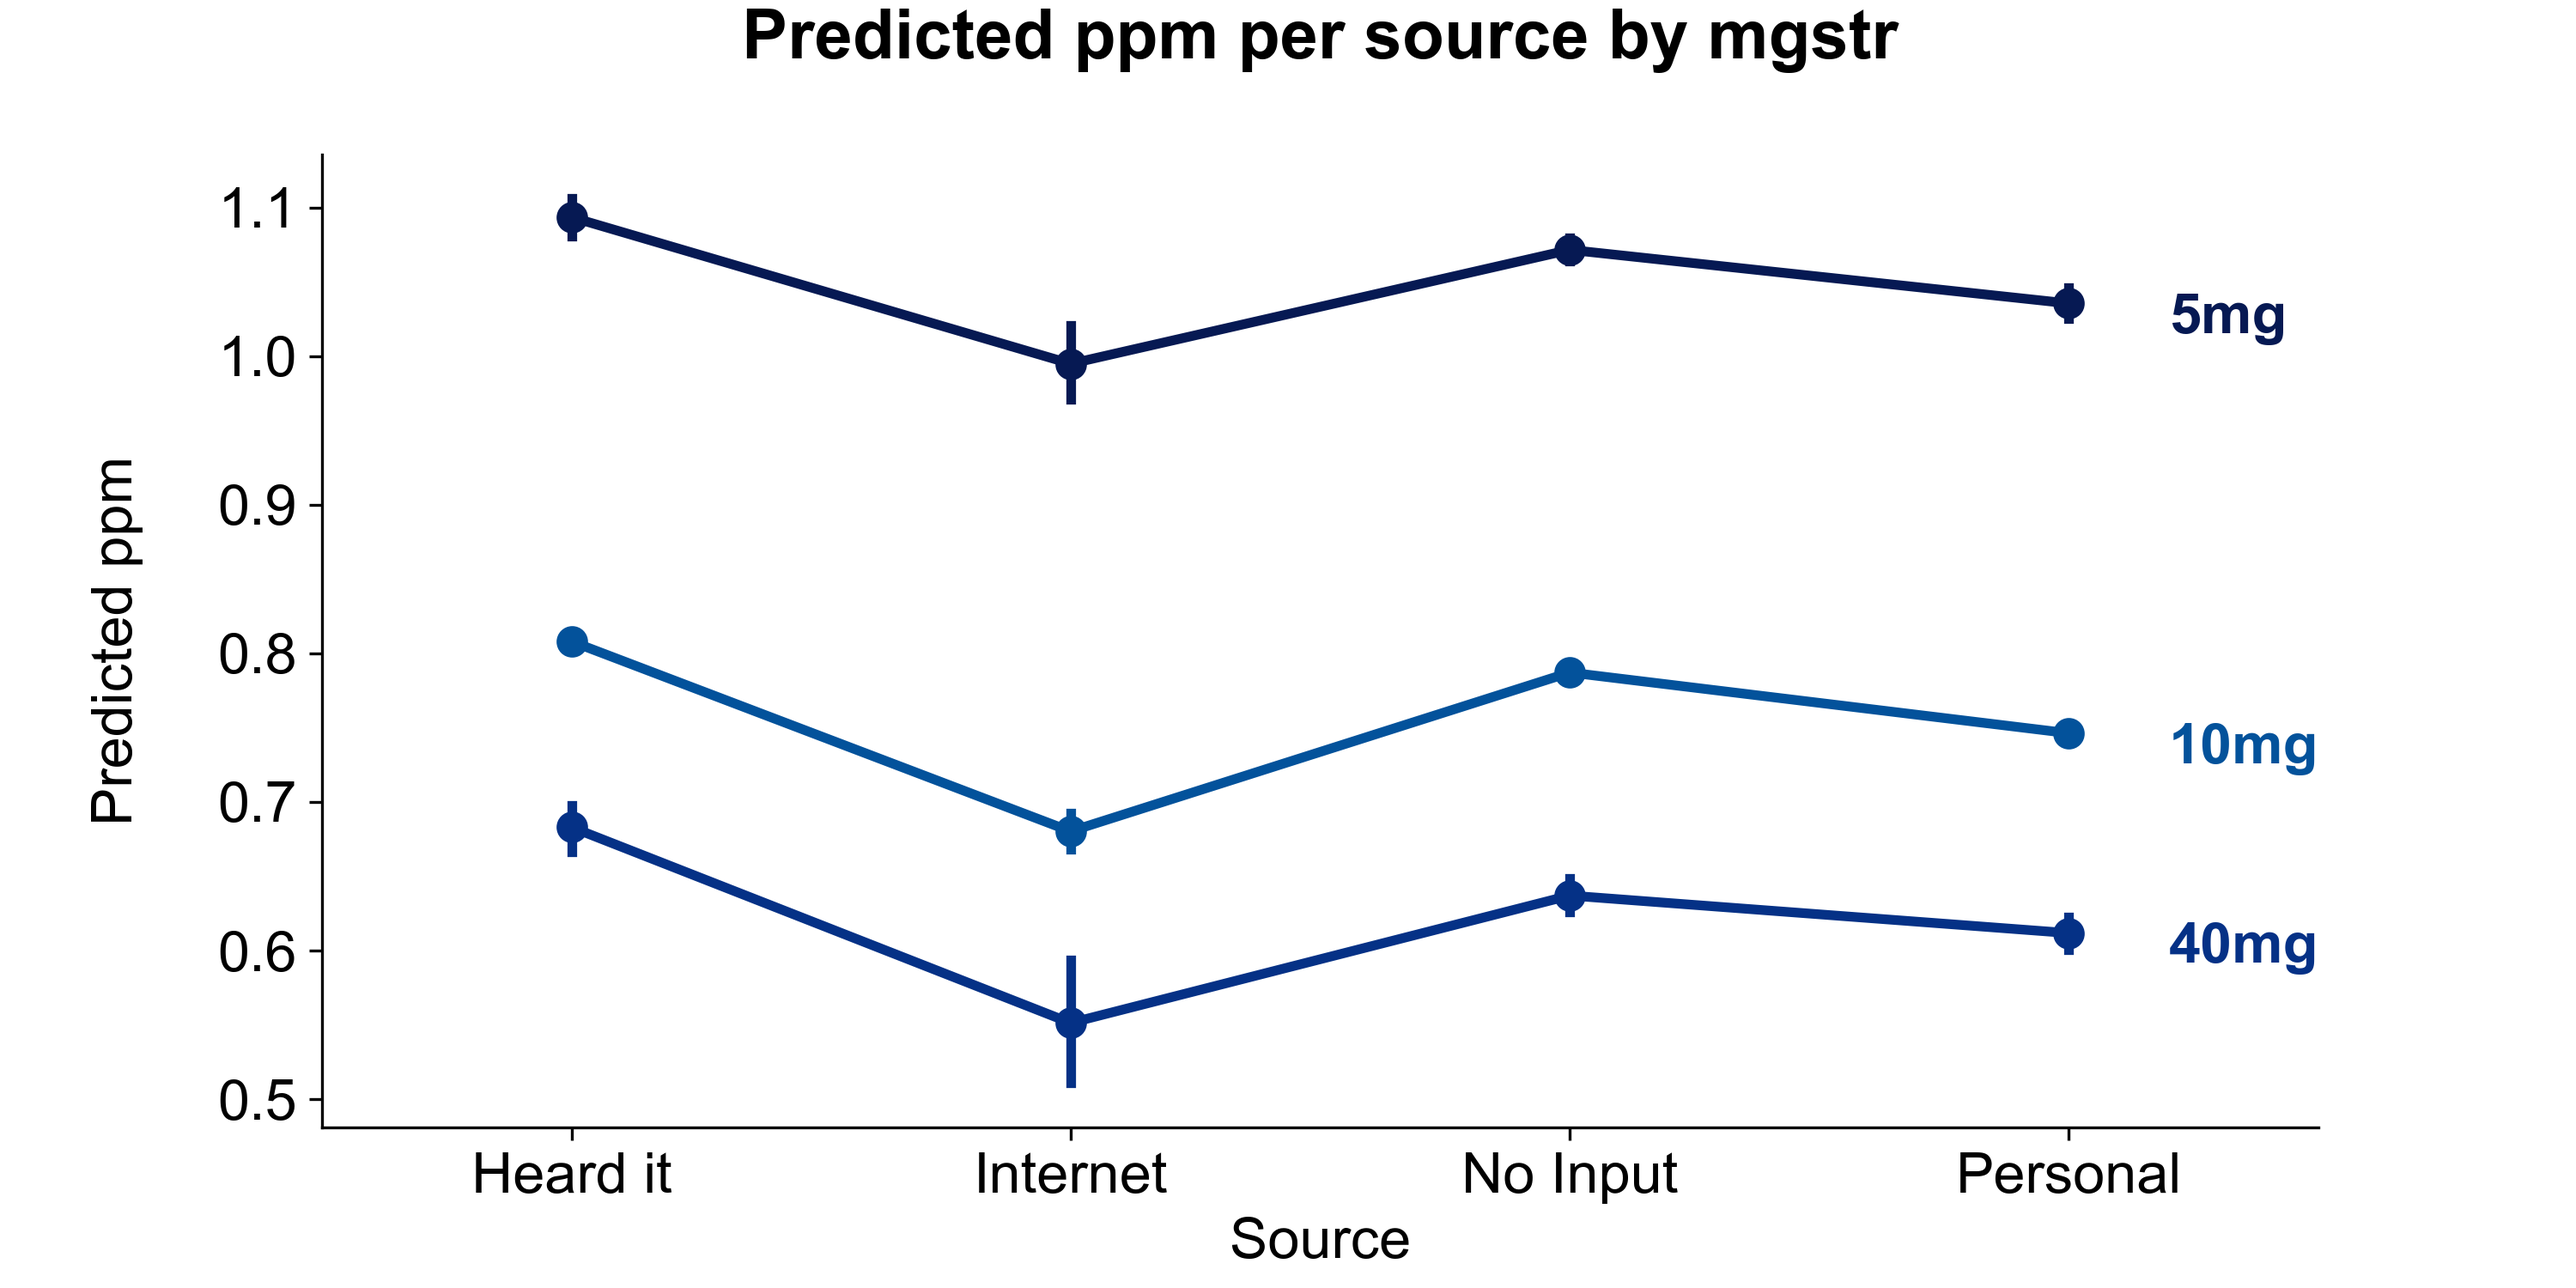
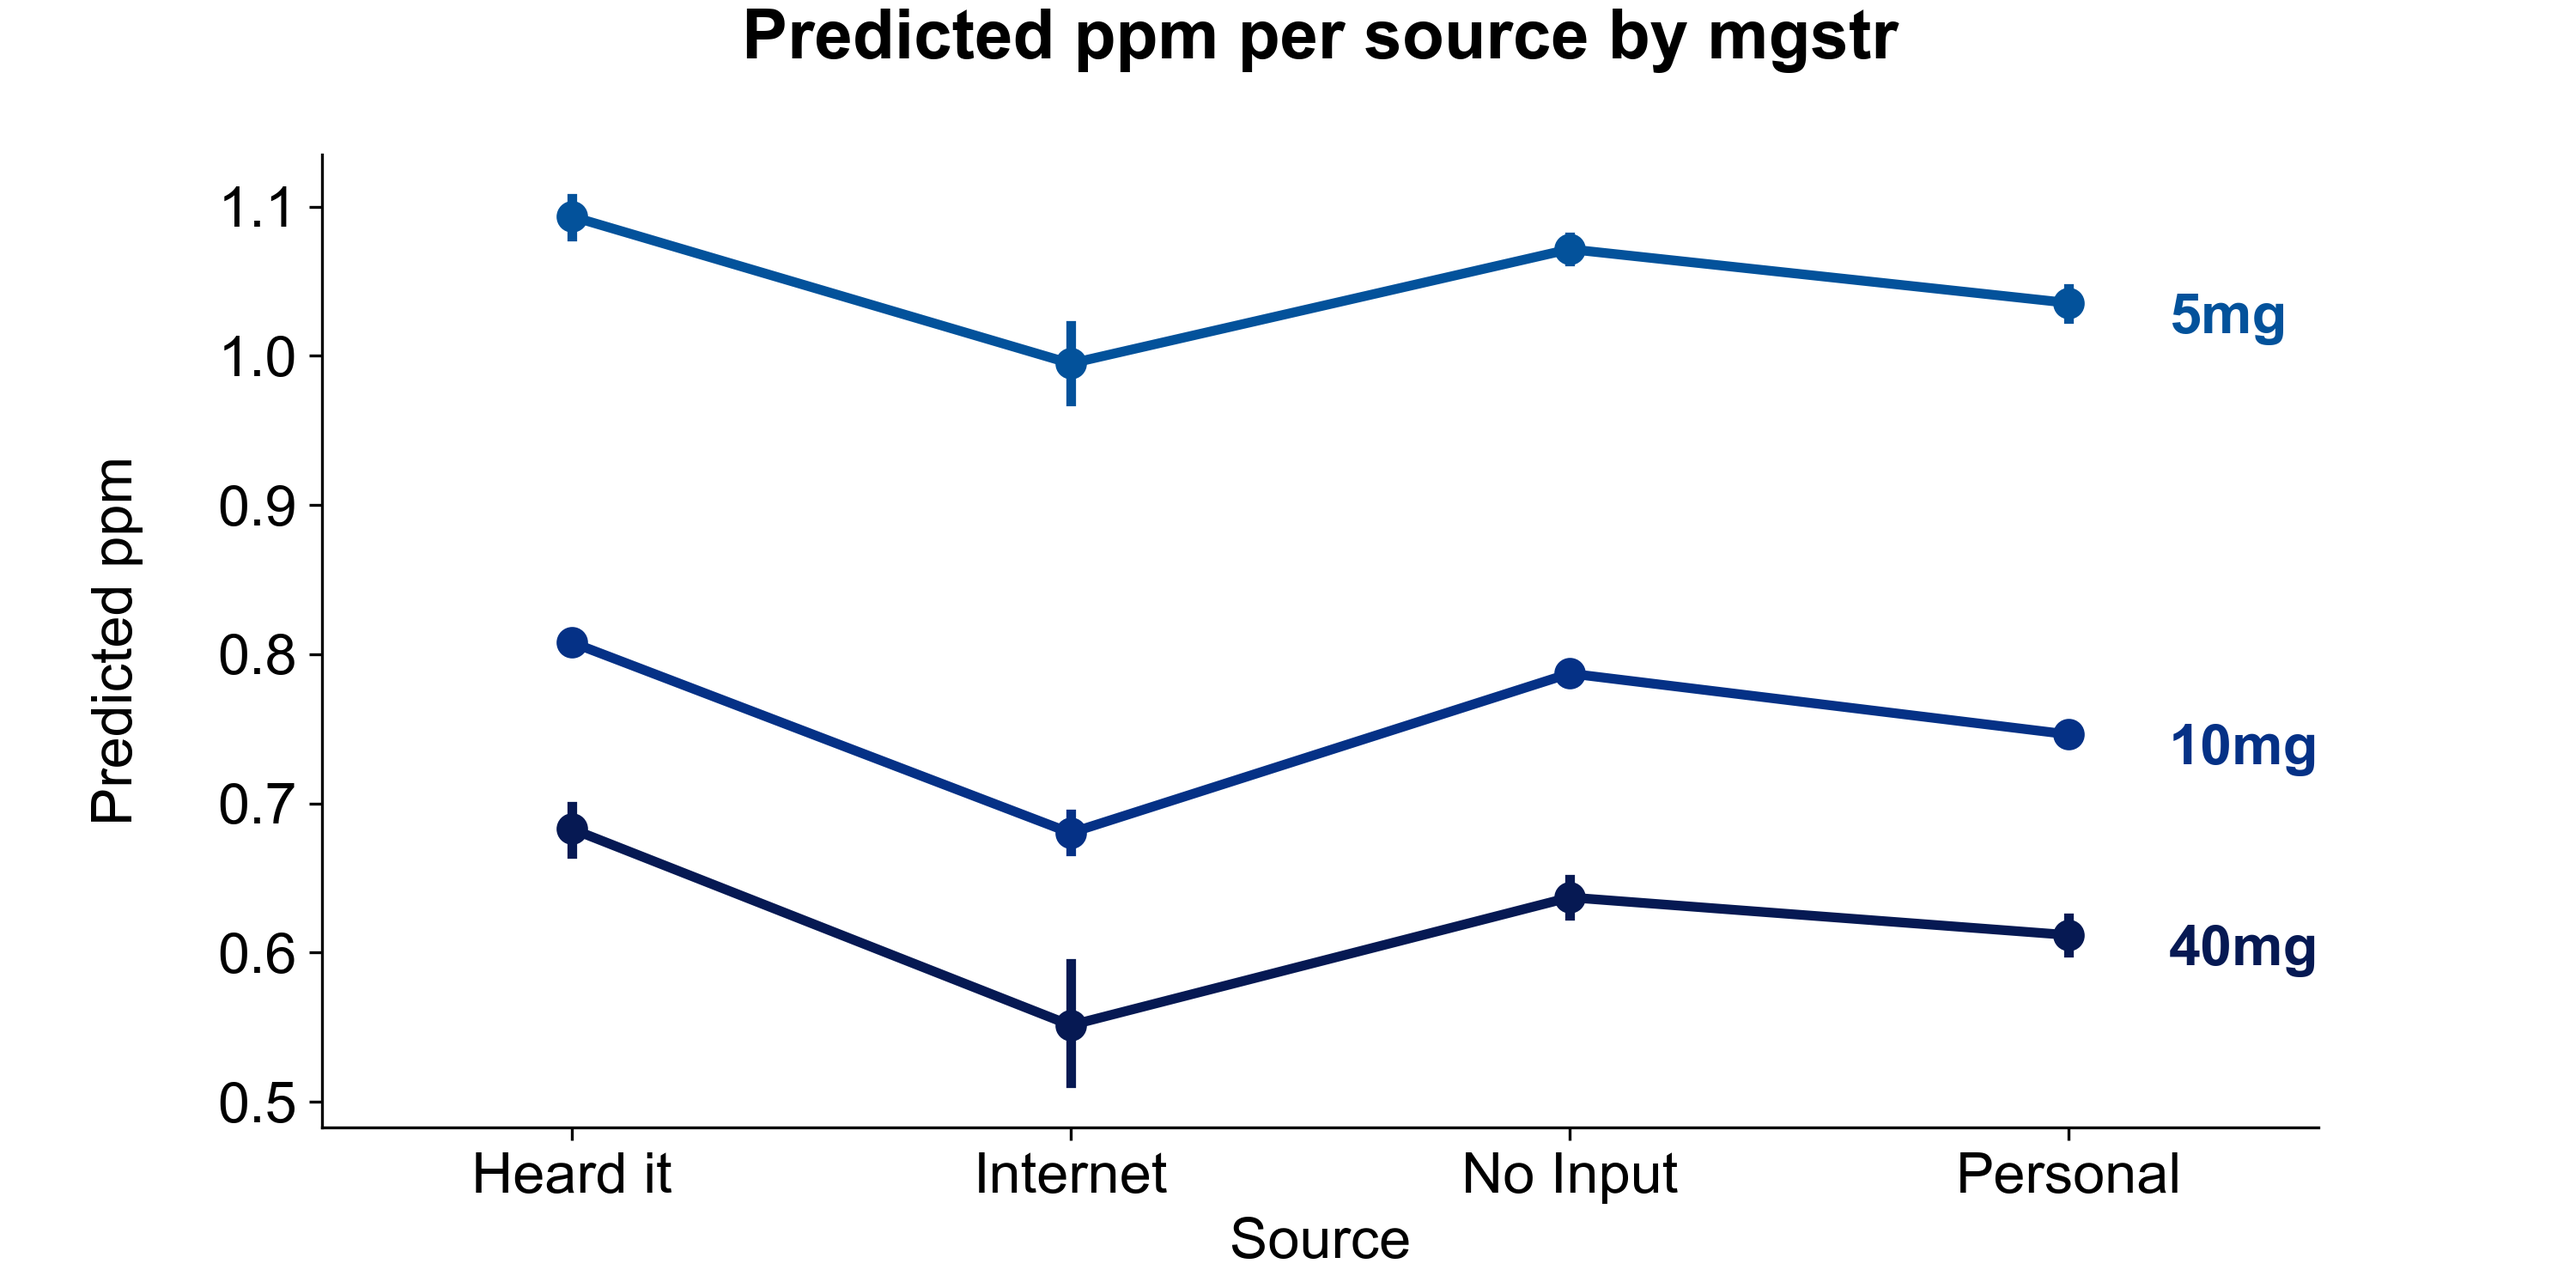
images! yay!

diff --git a/Presentation/part1_plots.py b/Presentation/part1_plots.py
@@ -1,8 +1,8 @@
 #%%
-import pandas as pd
 import matplotlib.pyplot as plt
-import seaborn as sns
 import matplotlib_inline
+import pandas as pd
+import seaborn as sns
 
 #%%
 #################### CONFIG ####################
@@ -57,7 +57,7 @@ total[cat_cols] = total[cat_cols].astype("category")
 #%%
 #################### pred by source ####################
 fig, ax = plt.subplots(figsize=(10, 5))
-palette3 = [LIGHTBLUE, MIDDLE, DARKBLUE]
+palette3 = [MIDDLE, DARKBLUE, LIGHTBLUE]
 
 sns.pointplot(
     data=clean_df,
@@ -86,24 +86,53 @@ ax.set_ylabel("Predicted ppm\n")
 plt.savefig("Images/ppm_source_mgstr.png", facecolor="white", dpi=300)
 
 #%%
-#################### Prediction by State ####################
-state_order = (
-    total.groupby("state")["pred"].mean().sort_values().index
-)  # .to_series().replace(state_abbrevs).values
-fig, ax = plt.subplots(figsize=(5, 11))
+#################### Random Intercepts by State ####################
+
+df_dotplot = pd.read_parquet("../Data/part1_dotplot_data.parquet").sort_values(
+    by="pointestimate"
+)
+df_dotplot["state"] = df_dotplot["state"].astype("category")
+
+fig, ax = plt.subplots(figsize=(8, 10))
+
 sns.pointplot(
-    data=total,
+    data=df_dotplot,
     y="state",
-    x="pred",
-    ci=95,
-    orient="h",
-    order=state_order,
+    x="pointestimate",
+    xerr=df_dotplot["err"],
+    order=df_dotplot["state"],
     ax=ax,
     color=DARKBLUE,
+    zorder=10,
 )
+
+highlight_states = ["California", "Arizona", "Tennessee"]
 ax.set_yticklabels(ax.get_yticklabels(), size=11)
+for label in ax.get_yticklabels():
+    label.set_color("k" if label.get_text() in highlight_states else "0.6")
+    label.set_weight("bold" if label.get_text() in highlight_states else "normal")
+    label.set_size(11.5 if label.get_text() in highlight_states else 10)
+
+ax.errorbar(
+    df_dotplot["pointestimate"],
+    df_dotplot["state"],
+    xerr=1.96 * df_dotplot["err"],
+    zorder=0,
+    color=DARKBLUE,
+    ecolor=[
+        DARKBLUE if label.get_text() in highlight_states else "0.7"
+        for label in ax.get_yticklabels()
+    ],
+)
 sns.despine()
-ax.legend([], [], frameon=False)
+ax.axvline(0, zorder=-1, color="0.6", linestyle="--")
+ax.set_xlabel("(Intercept)")
+ax.set_ylabel("State")
+ax.set_title("Random Intercepts for States", weight="bold")
+ax.spines['left'].set_visible(False)
+ax.yaxis.set_tick_params(which="both", length=0)
+plt.savefig("Images/intercept_by_state.png", facecolor="white", dpi=300)
+
 
 #%%
 # states_to_plot = ["Alabama", "Massachusetts", "California", "Kansas"]
@@ -131,17 +160,10 @@ state_abbrevs
 
 import pandas as pd
 
-state_df = (
-    clean_df.groupby("state")["pred"]
-    .mean()
-    .to_frame()
-    .reset_index()
-    .rename({"index": "state"}, axis=1)
-)
-state_df = state_df.assign(state=state_df.state.replace(state_abbrevs)).rename(
-    {"pred": "Predicted ppm"}, axis=1
-)
-# state_df.head()
+state_df = df_dotplot.copy()
+
+state_df = state_df.assign(state=state_df.state.replace(state_abbrevs)).rename({'pointestimate': 'Intercept'}, axis=1)
+
 
 #%%
 import plotly.express as px
@@ -149,7 +171,7 @@ import plotly.express as px
 fig = px.choropleth(
     state_df,
     locations="state",
-    color="Predicted ppm",
+    color="Intercept",
     hover_name="state",
     locationmode="USA-states",
     color_continuous_scale=px.colors.sequential.Viridis,

diff --git a/Presentation/part2_plots.py b/Presentation/part2_plots.py
@@ -18,3 +18,5 @@ DARKBLUE = "#061953"
 
 #%%
 df_long = pd.read_parquet("../Data/part2_df_long.parquet")
+#%%
+df_long
